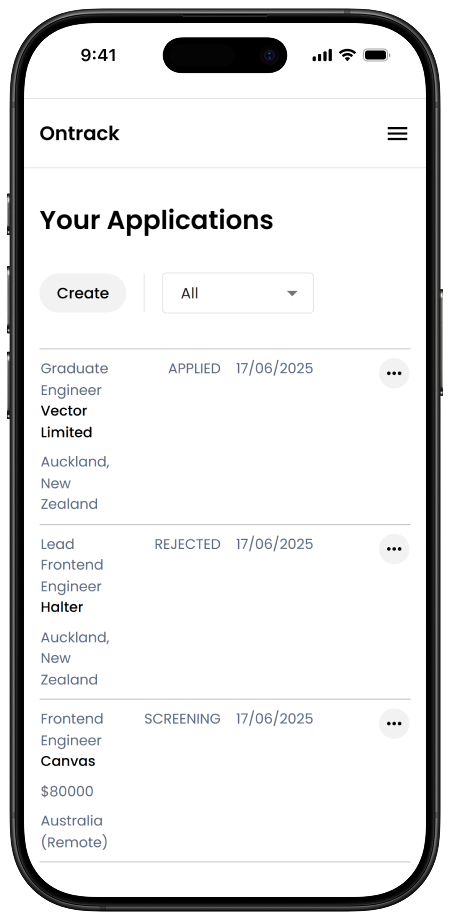
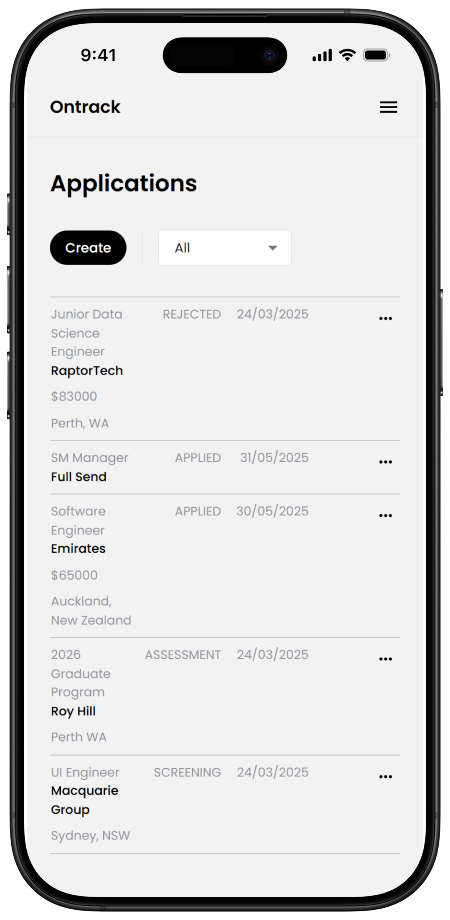
changing theme palettes

diff --git a/src/pages/Profile.tsx b/src/pages/Profile.tsx
@@ -23,6 +23,12 @@ export default function Profile() {
     },
   });
 
+  const onClickEdit = () => {
+    if (!user) return;
+    setValue("name", user.displayName);
+    setIsOpen((isOpen) => !isOpen);
+  };
+
   if (!user || loading)
     return (
       <div className="place-content-center text-center fixed left-0 right-0 top-0 bottom-0">
@@ -33,59 +39,44 @@ export default function Profile() {
   return (
     <div className="dark:bg-[#121212] dark:text-white px-6 py-8">
       <div className="flex justify-between flex-row">
-        <h1 className="font-semibold text-2xl">{user.displayName}'s Profile</h1>
+        <h1 className="font-semibold text-2xl">Profile</h1>
         <button
-          onClick={() => {
-            setValue("name", user.displayName);
-            setIsOpen((isOpen) => !isOpen);
-          }}
-          className="font-medium text-sm bg-[#f2f2f3] hover:bg-[#eaeaeb] dark:bg-[#252525] dark:hover:bg-[#2b2b2b] rounded-full text-black dark:text-white px-4 py-2"
+          onClick={onClickEdit}
+          className="font-medium text-sm bg-black hover:bg-[#333] text-white dark:bg-white dark:text-[#121212] dark:hover:bg-[#ccc] rounded-full px-4 py-2 self-center"
         >
           Edit
         </button>
       </div>
-      <div className="text-sm [&>div]:mb-3 grid grid-cols-1 lg:grid-cols-2 md:grid-cols-2 sm:grid-cols-2 gap-4 mt-8">
+      <div className="text-md grid grid-cols-1 space-y-6 mt-8">
         {user.displayName && (
           <div>
-            <label>Name</label>
-            <input
-              type="text"
-              className="w-full rounded-md border border-[#c6c6c6] px-4 py-2 mt-1"
-              disabled
-              placeholder={user.displayName}
-            />
+            <span>Name</span>
+            <div className="text-gray-payne dark:text-gray-default">
+              {user.displayName}
+            </div>
           </div>
         )}
         {user.email && (
           <div>
-            <label>Email</label>
-            <input
-              type="text"
-              className="w-full rounded-md border border-[#c6c6c6] px-4 py-2 mt-1"
-              disabled
-              placeholder={user.email}
-            />
+            <span>Email</span>
+            <div className="text-gray-payne dark:text-gray-default">
+              {user.email}
+            </div>
           </div>
         )}
         {user.metadata && (
           <div>
-            <label>Account created</label>
-            <input
-              type="text"
-              className="w-full rounded-md border border-[#c6c6c6] px-4 py-2 mt-1"
-              disabled
-              placeholder={user.metadata.creationTime}
-            />
+            <span>Account created</span>
+            <div className="text-gray-payne dark:text-gray-default">
+              {user.metadata.creationTime}
+            </div>
           </div>
         )}
         <div>
-          <label>Verified</label>
-          <input
-            type="text"
-            className="w-full rounded-md border border-[#c6c6c6] px-4 py-2 mt-1"
-            disabled
-            placeholder={user.emailVerified ? "Yes" : "No"}
-          />
+          <span>Account verified</span>
+          <div className="text-gray-payne dark:text-gray-default">
+            {user.emailVerified ? "Yes" : "No"}
+          </div>
         </div>
       </div>
 

diff --git a/src/pages/Content.tsx b/src/pages/Content.tsx
@@ -84,11 +84,11 @@ export default function Content() {
 
   return (
     <div className="dark:bg-[#121212] dark:text-white px-6 py-8 relative">
-      <h1 className="font-semibold text-2xl">Your Applications</h1>
+      <h1 className="font-semibold text-2xl">Applications</h1>
       <div className="flex items-center space-x-4 mt-8">
         <button
           onClick={() => setShowModal((showModal) => !showModal)}
-          className="font-medium text-sm bg-[#f2f2f3] hover:bg-[#eaeaeb] dark:bg-[#252525] dark:hover:bg-[#2b2b2b] rounded-full text-black dark:text-white px-4 py-2"
+          className="font-medium text-sm bg-black hover:bg-[#333] text-white dark:bg-white dark:text-[#121212] dark:hover:bg-[#ccc] rounded-full px-4 py-2"
         >
           Create
         </button>
@@ -99,7 +99,7 @@ export default function Content() {
           }}
         >
           <Select
-            className="focus:outline-none dark:text-white border dark:[&>svg]:fill-white dark:border-[#ffffff18]"
+            className="focus:outline-none bg-white dark:text-white dark:bg-transparent dark:[&>svg]:fill-white border dark:border-[#ffffff18]"
             value={statusOptions[statusIndex]}
             onChange={(e: SelectChangeEvent) => {
               setStatusIndex(statusOptions.indexOf(e.target.value));

diff --git a/src/components/Header.tsx b/src/components/Header.tsx
@@ -24,7 +24,7 @@ export default function Header() {
 
   return (
     <div className="sticky top-0 z-10">
-      <header className="flex items-center justify-between dark:bg-[#121212] border-b dark:border-[#ffffff18] bg-white px-6 py-4 h-16">
+      <header className="flex items-center justify-between dark:bg-[#121212] border-b dark:border-[#ffffff18] bg-[#f2f2f3] px-6 py-4 h-16">
         <div className="flex items-center space-x-8">
           <span className="font-semibold text-lg select-none">Ontrack</span>
           {width >= 640 && (

diff --git a/tailwind.config.js b/tailwind.config.js
@@ -7,7 +7,7 @@ module.exports = {
       colors: {
         gray: {
           default: "#808080",
-          payne: "#5A6881",
+          payne: "#95959D",
           night: "#121212",
         },
       },

diff --git a/src/styles/index.css b/src/styles/index.css
@@ -10,7 +10,7 @@ html.dark {
 }
 
 body {
-  background-color: #fff;
+  background-color: #f2f2f3;
   margin: 0;
   padding: 0;
   font-family: "Poppins", sans-serif;
